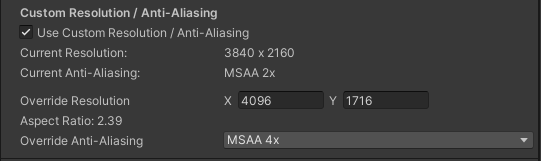
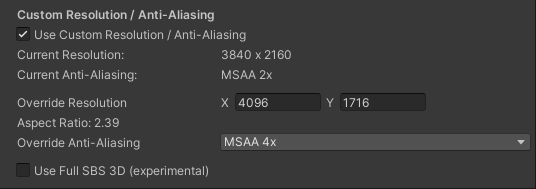
Add full SBS 3D support

diff --git a/Assets/VRCLens_Custom/Editor/VRCLensModifierEditor.cs b/Assets/VRCLens_Custom/Editor/VRCLensModifierEditor.cs
@@ -15,6 +15,7 @@ public class VRCLensModifierEditor : Editor
 
     private SerializedProperty useCustomResolutionProp;
     private SerializedProperty sensorResProp;
+    private SerializedProperty useFullSBS3dProp;
     private SerializedProperty msaaProp;
 
     private void OnEnable()
@@ -27,6 +28,7 @@ public class VRCLensModifierEditor : Editor
 
         useCustomResolutionProp = serializedObject.FindProperty(nameof(modifier.useCustomResolution));
         sensorResProp = serializedObject.FindProperty(nameof(modifier.sensorRes));
+        useFullSBS3dProp = serializedObject.FindProperty(nameof(modifier.useFullSBS3d));
         msaaProp = serializedObject.FindProperty(nameof(modifier.msaa));
     }
 
@@ -94,9 +96,11 @@ public class VRCLensModifierEditor : Editor
 
             sensorResProp.vector2IntValue = EditorGUILayout.Vector2IntField("Override Resolution", sensorResProp.vector2IntValue);
 
-            if (sensorResProp.vector2IntValue.x != 0 && sensorResProp.vector2IntValue.y != 0)
+            float aspectRatio;
+            bool customResolutionSet = sensorResProp.vector2IntValue.x != 0 && sensorResProp.vector2IntValue.y != 0;
+            if (customResolutionSet)
             {
-                float aspectRatio = (float)sensorResProp.vector2IntValue.x / sensorResProp.vector2IntValue.y;
+                aspectRatio = (float)sensorResProp.vector2IntValue.x / sensorResProp.vector2IntValue.y;
                 EditorGUILayout.LabelField($"Aspect Ratio: {aspectRatio:F2}");
             }
 
@@ -105,6 +109,23 @@ public class VRCLensModifierEditor : Editor
             int selectedIndex = Array.IndexOf(msaaValues, msaaProp.intValue);
             selectedIndex = EditorGUILayout.Popup("Override Anti-Aliasing", selectedIndex, msaaOptions);
             msaaProp.intValue = msaaValues[selectedIndex];
+
+            EditorGUILayout.Space();
+
+            useFullSBS3dProp.boolValue = EditorGUILayout.ToggleLeft("Use Full SBS 3D (experimental)", useFullSBS3dProp.boolValue);
+            if (useFullSBS3dProp.boolValue)
+            {
+                if (!customResolutionSet)
+                {
+                    EditorGUILayout.HelpBox("To use Full SBS 3D, you must set a custom resolution. Usually, the width should just be doubled, so if you used 1920x1080 before, use 3840x1080 for a 1920x1080 video in full SBS 3D.", MessageType.Warning);
+                }
+                else
+                {
+                    // Show the full SBS 3D aspect ratio, which would be half the aspect ratio
+                    float fullSBS3DAspectRatio = (float)(sensorResProp.vector2IntValue.x / 2) / sensorResProp.vector2IntValue.y;
+                    EditorGUILayout.LabelField($"Full SBS 3D Aspect Ratio: {fullSBS3DAspectRatio:F2}");
+                }
+            }
         }
 
         // Apply changes to the serialized object

diff --git a/Assets/VRCLens_Custom/Editor/VRCLensResolutionModifier.cs b/Assets/VRCLens_Custom/Editor/VRCLensResolutionModifier.cs
@@ -5,7 +5,7 @@ using UnityEngine;
 public class VRCLensResolutionModifier
 {
     // Modifies the sensor resolution and anti-aliasing of VRCLens.
-    public static bool CopyAndModifyMaterials(VRCLens vrclens, Vector2Int resolution, int msaa, string tempDir)
+    public static bool CopyAndModifyMaterials(VRCLens vrclens, Vector2Int resolution, bool useFullSBS3d, int msaa, string tempDir)
     {
         RenderTexture depthTex;
         Vector2Int renderTexSize, depthTexSize;
@@ -102,14 +102,29 @@ public class VRCLensResolutionModifier
             // cameraColorAvatar.sensorSize = sensorSize;
             // cameraDepthAvatar.sensorSize = sensorSize;
 
-            // For 3D. VRCLens installer uses 36x(36/aspectRatio) (same as 2D aspect ratio), but this results
-            // in a squished image. Leaving it at 16:9 also results in a squished image.
-            // We will use half the aspect ratio instead.
-            Vector2 sensorSize3D = new Vector2(36f, 36f / (camAspectRatio / 2));
-            stereoLeftColor.sensorSize = sensorSize3D;
-            stereoLeftDepth.sensorSize = sensorSize3D;
-            stereoRightColor.sensorSize = sensorSize3D;
-            stereoRightDepth.sensorSize = sensorSize3D;
+            // For SBS 3D. VRCLens uses half SBS by default, so a 3840x2160 SBS 3D video will be
+            // viewed as 3840x2160 in half the horizontal resolution. The sensor size is 36 x (36/aspectRatio),
+            // same as 2D aspect ratio.
+            // For full SBS 3D, we need to half the aspect ratio, so a 7680x2160 SBS 3D video will be
+            // viewed as 3840x2160 in the full horizontal resolution.
+            if (useFullSBS3d)
+            {
+                Vector2 sensorSize3D = new Vector2(36f, 36f / (camAspectRatio / 2));
+                Debug.Log($"[VRCLensResolutionModifier] Using Full SBS 3D with sensor size: {sensorSize3D}");
+                stereoLeftColor.sensorSize = sensorSize3D;
+                stereoLeftDepth.sensorSize = sensorSize3D;
+                stereoRightColor.sensorSize = sensorSize3D;
+                stereoRightDepth.sensorSize = sensorSize3D;
+            }
+            else
+            {
+                Vector2 sensorSize3D = new Vector2(36f, 36f / camAspectRatio);
+                Debug.Log($"[VRCLensResolutionModifier] Using Half SBS 3D with sensor size: {sensorSize3D}");
+                stereoLeftColor.sensorSize = sensorSize3D;
+                stereoLeftDepth.sensorSize = sensorSize3D;
+                stereoRightColor.sensorSize = sensorSize3D;
+                stereoRightDepth.sensorSize = sensorSize3D;
+            }
         }
 
         // Set MSAA

diff --git a/Assets/VRCLens_Custom/Editor/VRCLensModifier.cs b/Assets/VRCLens_Custom/Editor/VRCLensModifier.cs
@@ -14,6 +14,7 @@ public class VRCLensModifier : MonoBehaviour, IEditorOnly
 
     public bool useCustomResolution;
     public Vector2Int sensorRes;
+    public bool useFullSBS3d;
     public int msaa;
 
     public void Modify(string tempDir)
@@ -74,7 +75,7 @@ public class VRCLensModifier : MonoBehaviour, IEditorOnly
 
         if (useCustomResolution)
         {
-            if (!VRCLensResolutionModifier.CopyAndModifyMaterials(vrclens, sensorRes, msaa, tempDir))
+            if (!VRCLensResolutionModifier.CopyAndModifyMaterials(vrclens, sensorRes, useFullSBS3d, msaa, tempDir))
             {
                 Debug.LogWarning($"[VRCLensModifier] Could not modify VRCLens materials for custom resolution.");
                 return;

diff --git a/README.md b/README.md
@@ -146,11 +146,15 @@ Drag and drop the `VRCLensOptimizer` prefab onto the `VRCLens` object on your av
 
 Usually, the sensor resolution and anti-aliasing can only be set when installing VRCLens. This lets you change the resolution and anti-aliasing without having to reinstall VRCLens.
 
-It also attempts to fix an issue with the aspect ratio in 3D mode *maybe*.
+It also adds experimental support for full SBS 3D. VRCLens currently uses half SBS for its side-by-side 3D mode, so recording in 3D at 1920x1080 would produce a 1920x1080 video at half the horizontal resolution (960x1080 per eye). Full SBS would allow you to record at 3840x1080 and produce a 1920x1080 video at full resolution (1920x1080 per eye).
+
+Last tested: VRCLens 1.9.2
 
 ### Usage
 
 Enter your custom resolution and/or anti-aliasing in **Override Resolution** and **Override Anti-Aliasing**.
+
+Optionally click **Use Full SBS 3D (experimental)** if you want to enable that. If so, make sure you change the resolution so the width is doubled.
 
 ![CustomResolution](Doc/CustomResolution.png)
 
